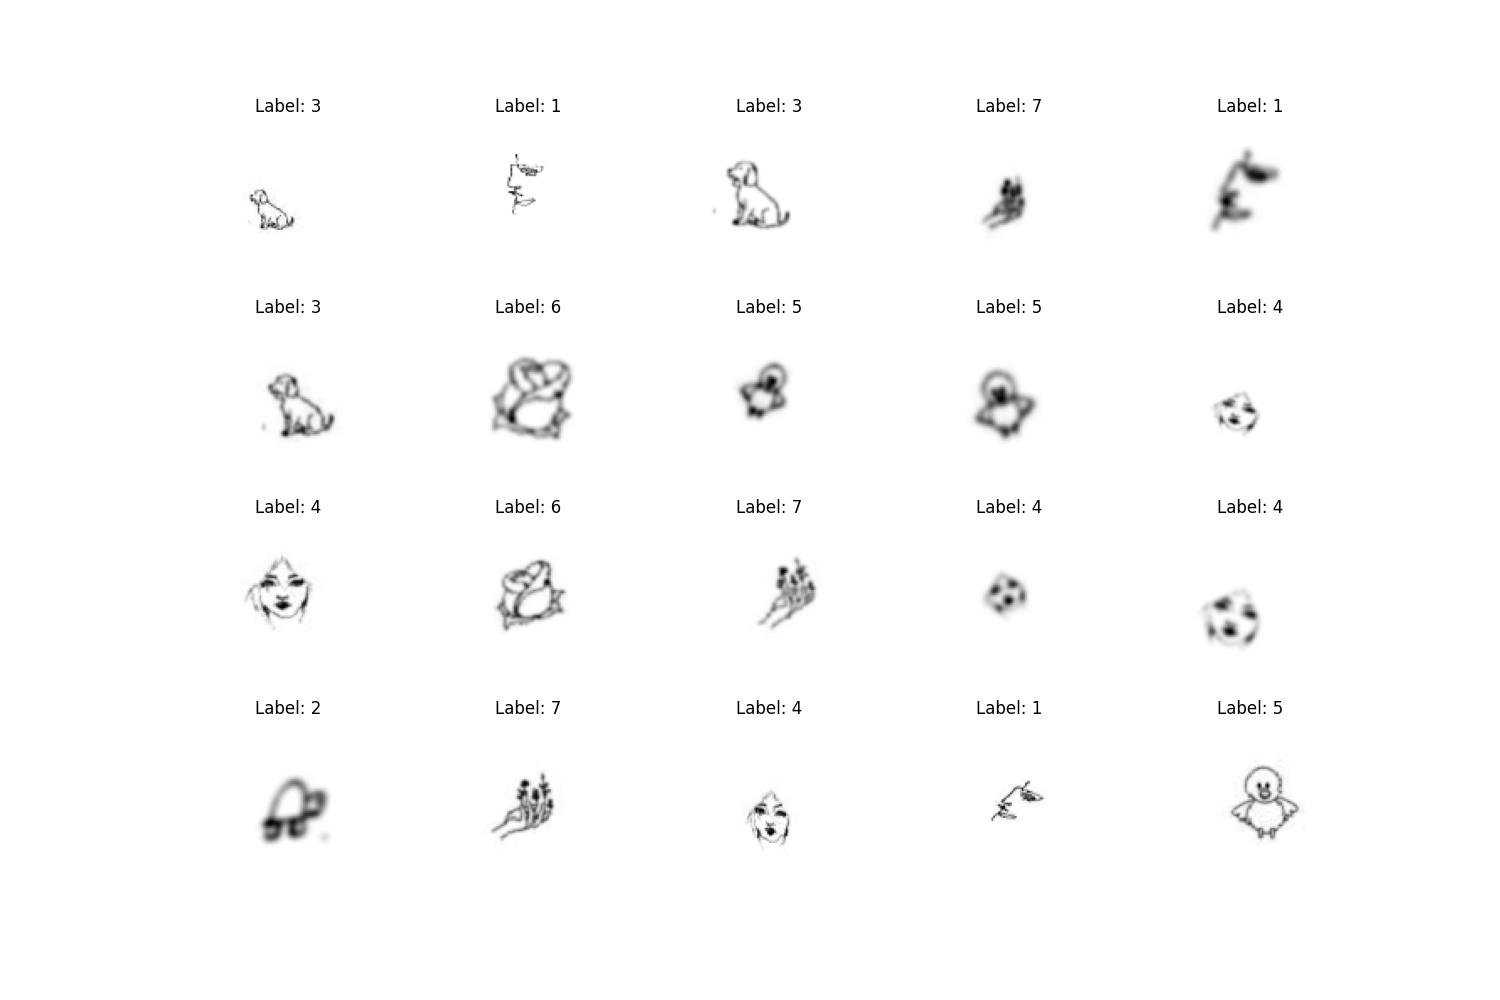
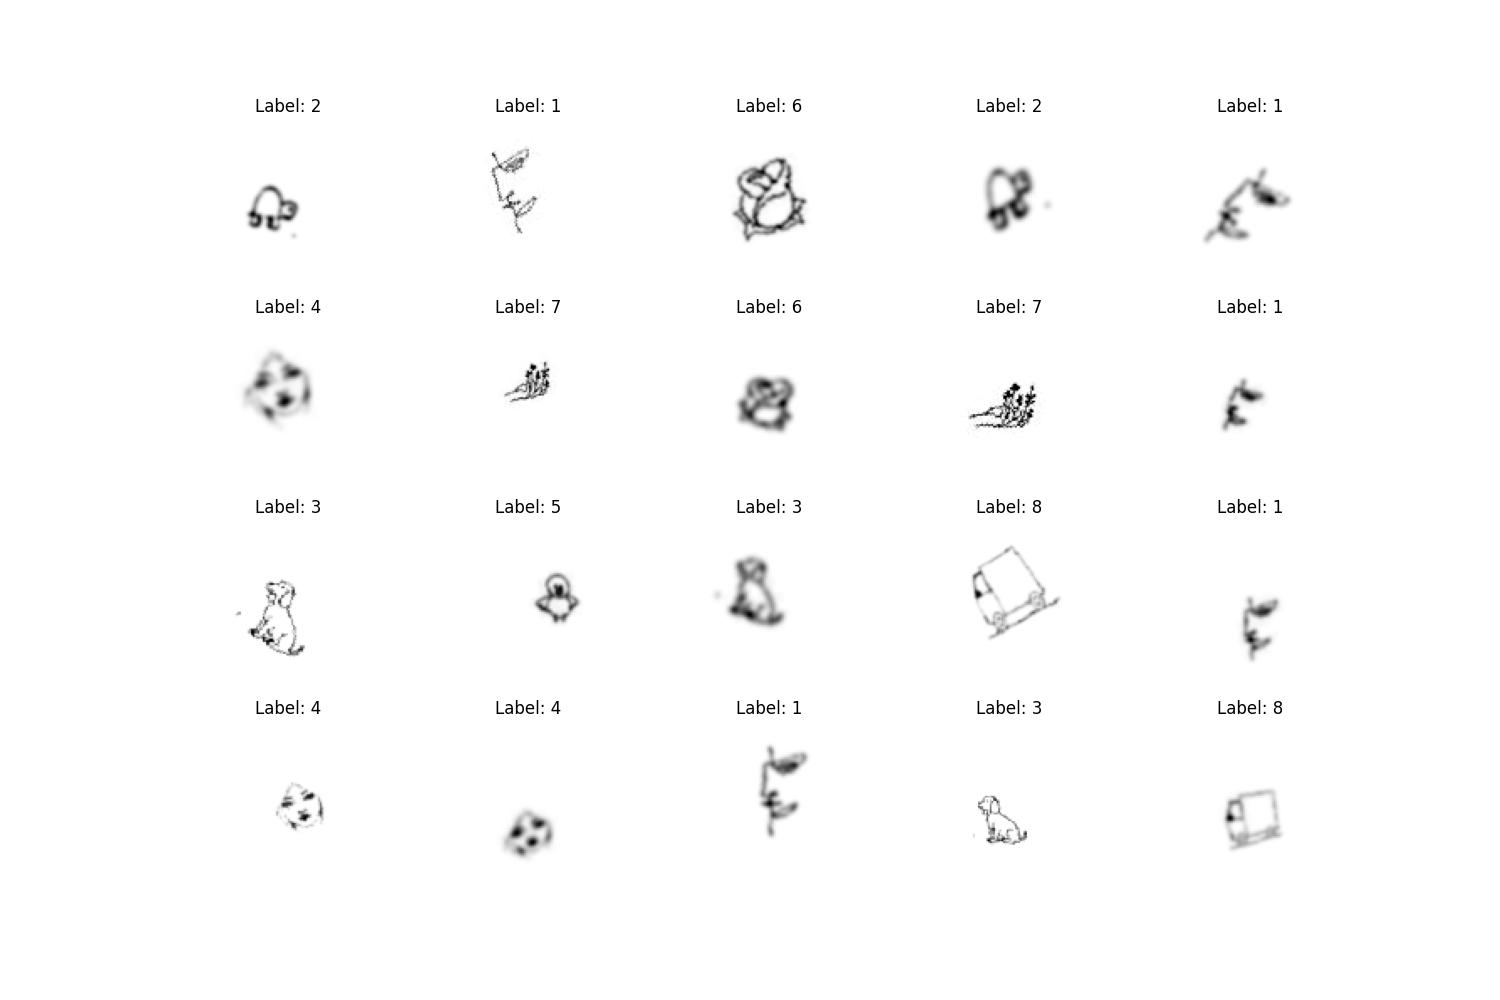
Stat à 50000

diff --git a/ReconnaissanceImages/datasets/config.py b/ReconnaissanceImages/datasets/config.py
@@ -2,7 +2,7 @@
 image_path = "numbers"
 
 # version de la configuration
-version = 8
+version = 9
 
 # Taille des images qui serviront à entraîner le modèle
 image_size = 50
@@ -14,7 +14,7 @@ padding = 25
 N = 1250*5*8
 
 # Epoques pur l'entraînement
-epochs = 5
+epochs = 50
 
 image_folder = f"data/{image_path}"
 original_image_paths = [f"{image_folder}/{i:02d}.jpg" for i in range(1, 9)]
